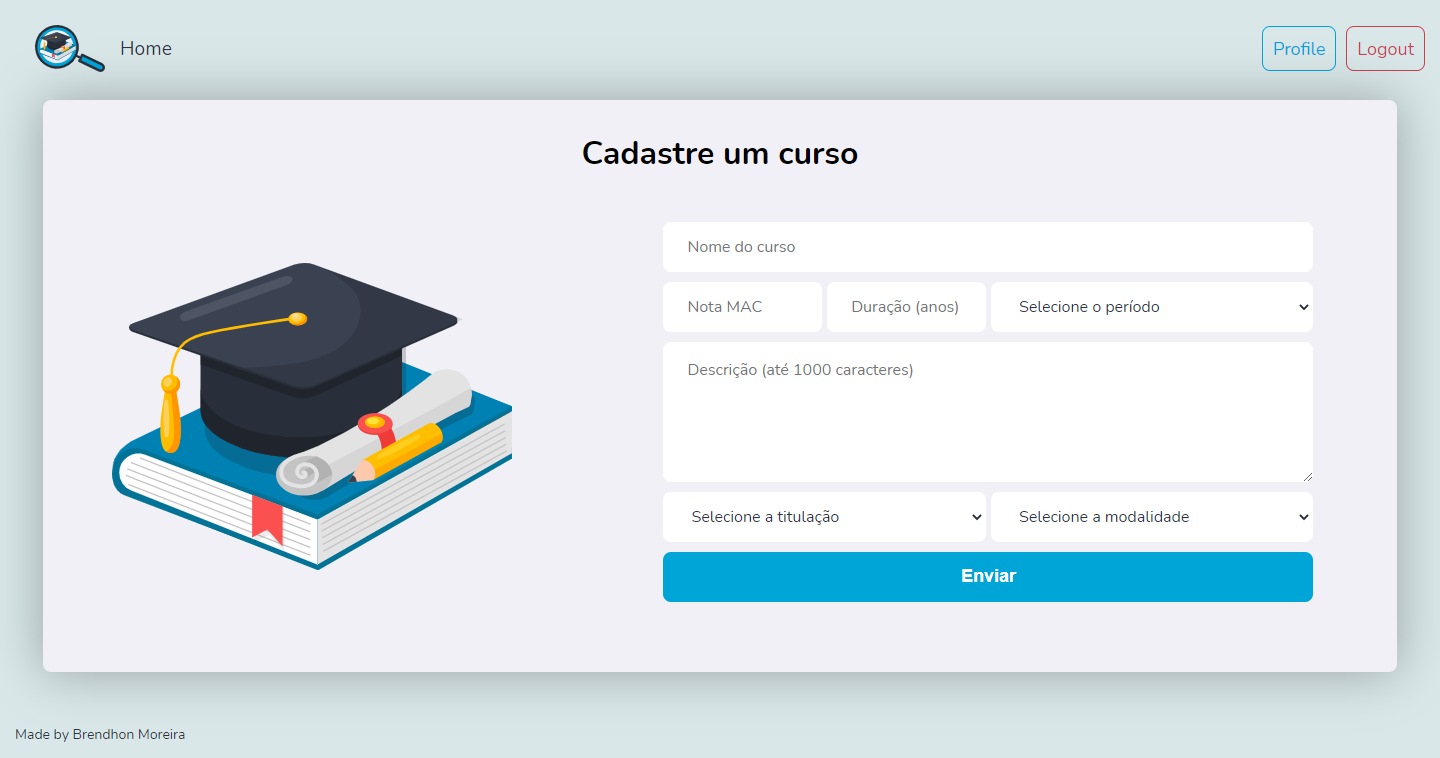
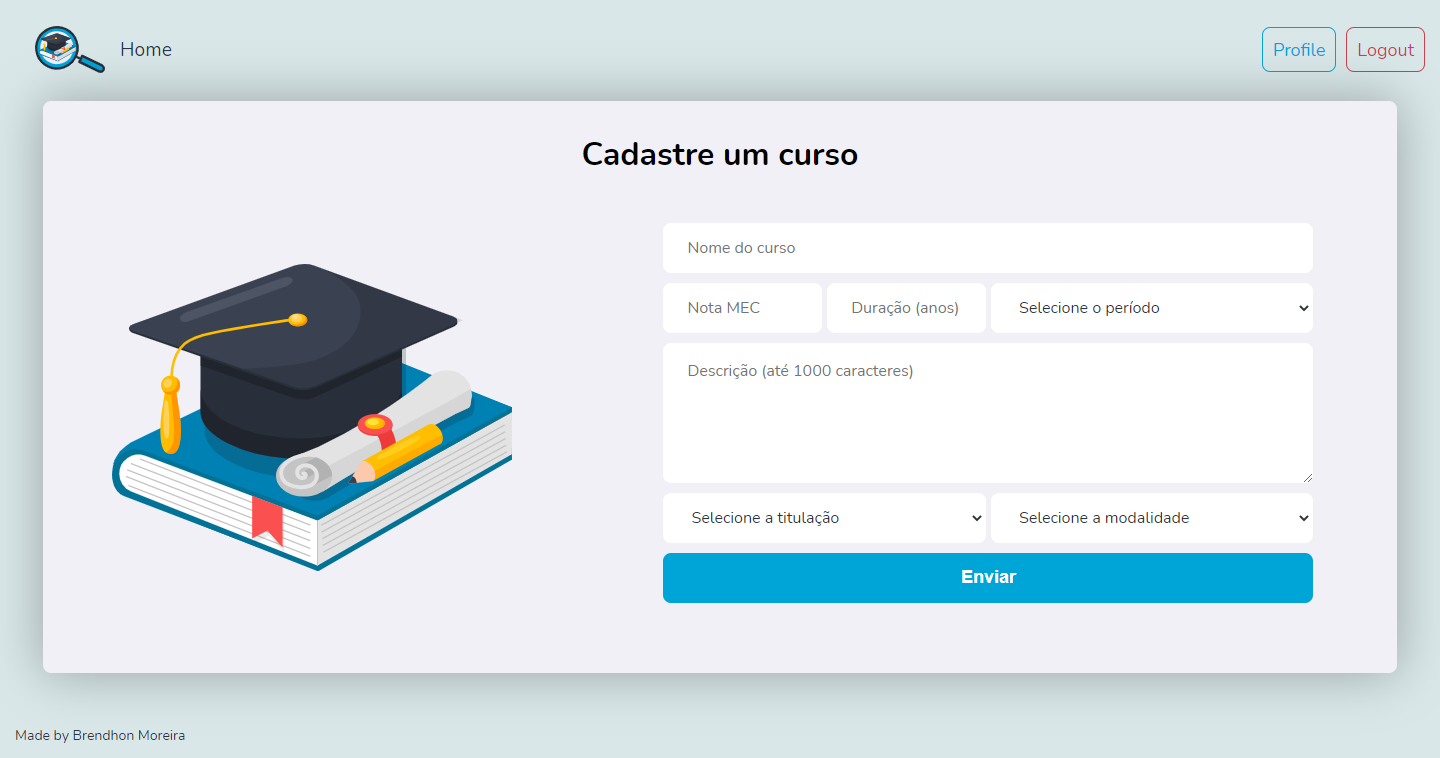
fix

diff --git a/src/components/Form/Course.jsx b/src/components/Form/Course.jsx
@@ -30,7 +30,7 @@ const FormCourse = props => {
 
                     <Field name="score"
                         className="form-field score"
-                        placeholder="Nota MAC" />
+                        placeholder="Nota MEC" />
                     <ErrorMessage className="form-error error-score" component="span" name="score" />
 
                     <Field name="duration"
